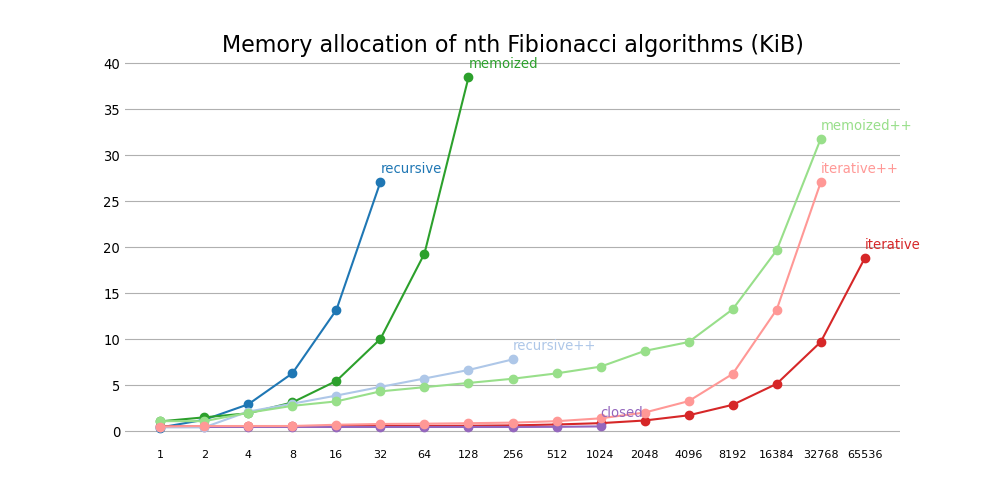
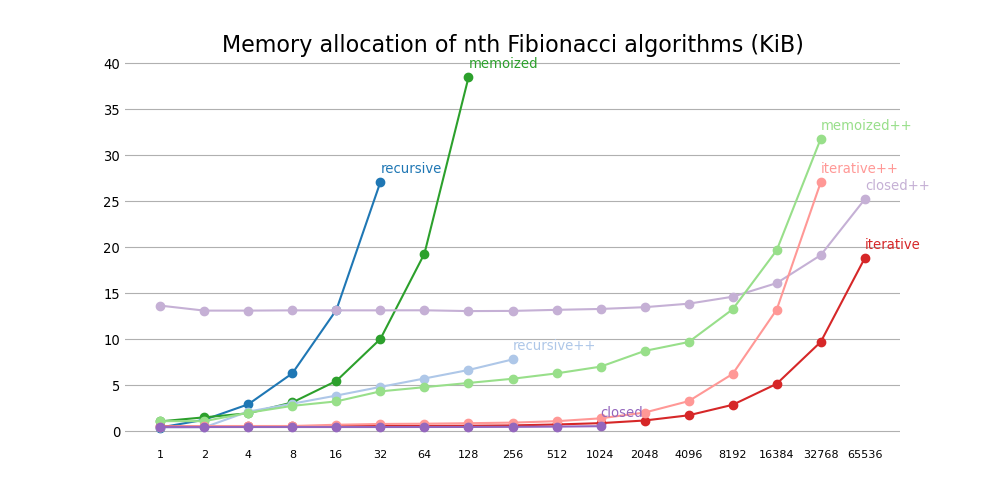
closed arbitrary precision floats

diff --git a/scripts/fib_plot.py b/scripts/fib_plot.py
@@ -4,6 +4,7 @@ from fib.fib import fibs
 
 
 names = list(fibs.keys())
+names[3], names[-1] = names[-1], names[3]
 
 
 tableau20 = [(r / 255, g / 255, b / 255) for r,g,b in (
@@ -20,6 +21,7 @@ colors = {'recursive' : 0,
           'recursive++' : 1,
           'memoized++' : 5,
           'iterative++' : 7,
+          'closed++' : 9,
 }
 for name, i in colors.items():
     colors[name] = tableau20[i]
@@ -32,6 +34,7 @@ time_stops = {'recursive' : 5,
               'recursive++' : 9,
               'memoized++' : 17,
               'iterative++' : 16,
+              'closed++' : 17,
 }
 
 mem_stops = {'recursive' : 6,
@@ -41,6 +44,7 @@ mem_stops = {'recursive' : 6,
              'recursive++' : 9,
              'memoized++' : 16,
              'iterative++' : 16,
+             'closed++' : 17,
 }
 
 

diff --git a/scripts/fib_time.py b/scripts/fib_time.py
@@ -7,14 +7,14 @@ def time_fib(name, n, repeat):
     setup = "from fib.fib import fibs\nfib = fibs['%s']" % name
     stmt = 'fib(%d)' % n
     time = timeit.repeat(setup=setup, stmt=stmt, repeat=repeat, number=1)    
-    return sum(time) / len(time) * 1e6
+    return min(time) * 1e6
 
 def time_fibs(repeat):
     nums = [2**i for i in range(25)]
     times = {}
 
     with open('data/pow_data.txt', 'r') as f:
-        print("measuring execution times: average over %d runs" % repeat)
+        print("measuring execution times: min over %d runs" % repeat)
         for line in f:
             name, pow = line.split() 
             times[name] = [(n, time_fib(name, n, repeat)) 

diff --git a/scripts/fib_pow.py b/scripts/fib_pow.py
@@ -33,11 +33,13 @@ def timeout_fibs(time):
     nums = [2**i for i in range(25)]
 
     for name, fib in fibs.items():
+        pow = len(nums)  
         for i, num in enumerate(nums):
             with timeout(fib, num, time) as result:
                 if not result:
-                    pows[name] = i-1
+                    pow = i-1
                     break
+        pows[name] = pow
 
     return pows
 

diff --git a/fib/fib.py b/fib/fib.py
@@ -76,3 +76,11 @@ def fib_itr_pp(n):
             a, b, c = b, c, b+c
     # R = M**n 
     return b
+
+from mpmath import phi, sqrt, fdiv, fmod, power
+
+@register('closed++')
+def fib_cls_pp(n):
+    approx = fdiv(power(phi, n), sqrt(5))
+    frac = fmod(approx, 1)
+    return int(approx - frac) + int(frac > .5)

diff --git a/README.md b/README.md
@@ -1,45 +1,51 @@
+
 # Profiling Fibonacci sequence algorithms
+
 Analysis of nth Fibonacci algorithms implemented in Python. 
 
 ## Plots
-Beware of the log scale in the x-axis. All graphs transcribe their theoretical complexity. 
 
 ![alt text](https://github.com/rajtyagi2718/timestable/blob/master/plots/time_plot.png)
 
-
 ![alt text](https://github.com/rajtyagi2718/timestable/blob/master/plots/mem_plot.png)
 
+### Notes
+
+* Beware of the log scale on the x-axis. 
+* The memory profiler includes overhead from the module.
+
 ## Algorithms
-Three algorithms are considered, derived from the following identities.
-(1) linear recurrence: F(n) = F(n-1) + F(n-2)
-(2) quadratic recurrence: F(2n) = [F(n-1) + F(n+1)] * F(n)
-                          F(2n-1) = F(n)^2 + F(n-1)^2
-(3) closed form: F(n) = [phi^n - (-phi)^(-n)] / sqrt(5)
+
+The algorithms are derived from the following identities
+1. linear recurrence: F(n) = F(n-1) + F(n-2)
+2. quadratic recurrence: F(2n) = [F(n-1) + F(n+1)] * F(n)
+                         F(2n-1) = F(n)^2 + F(n-1)^2
+3. closed form: F(n) = [phi^n - (-phi)^(-n)] / sqrt(5)
                  phi = [1 + sqrt(5)] / 2
-This leads to exponential, logarithmic, constant time complexities. ++ indicates fast exponentiation algorithms derived from the quadratice recurrence.
+with time complexities: exponential, logarithmic, constant.
 
-Three implementations are considered: recursive, memoized, iterative.  
-(1) recursive: call stack grows with each function call from n down to 1
-(2) memoized: hash map grows with each cached output from n down to 1
-(3) iterative: minimal set of parameters adjusted from 1 up to n
-This leads to exponential, linear, constant space complexities.  
+Three implementations are considered
+1. recursive: call stack grows with each function call from n to 1
+2. memoized: hash map grows with each cached output from 1 to n
+3. iterative: minimal set of parameters adjusted from 1 to n
+with space complexities: exponential, linear, constant.  
 
-Notes:
-* Linear algebra provides a beautiful derivation of the closed formula. Although in practice, phi is only approximated. Rounding floating points leads to overflow error after n = 2^10.
+The functions named 'recursive', 'memoized', 'iterative' use linear recurrence, 'recursive++', 'memoized++', 'iterative++' use quadratic, 'closed++' uses arbitrary precision floats.
+
+### Notes
+
+* Linear algebra provides a beautiful derivation of the closed formula. Floating points are required and overflow after n = 2^10, but arbitrary precision floats are scalable.
 * The iterative qudratic implementation is tricky! It's fast exponentiation 
-applied to the matrix formulation.
+on matrices.
+
+## Analysis
+
+Interestingly, 'memoized++' runs faster than 'iterative++' after 2^12. Also 'closed++' memory consumption from arbitrary precision stays constant until 2^12. 
+
 ## Tests
 
 ## Scripts
 
-## Plots
-
 ## Errors
-
-## Notes
-
-
-
-
 
 ## References
